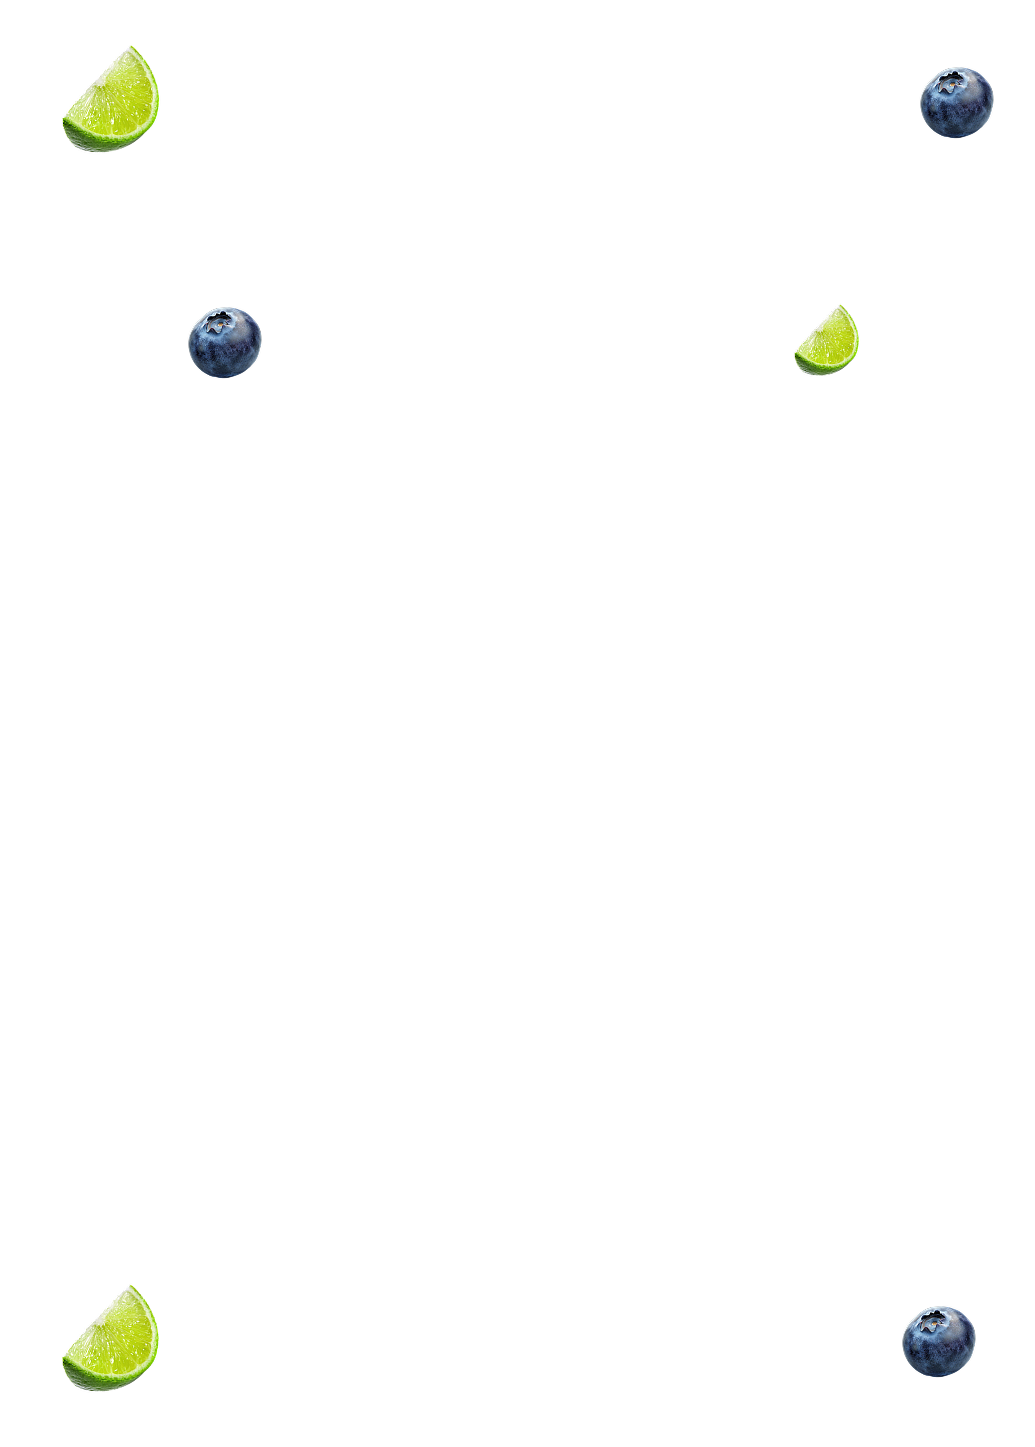
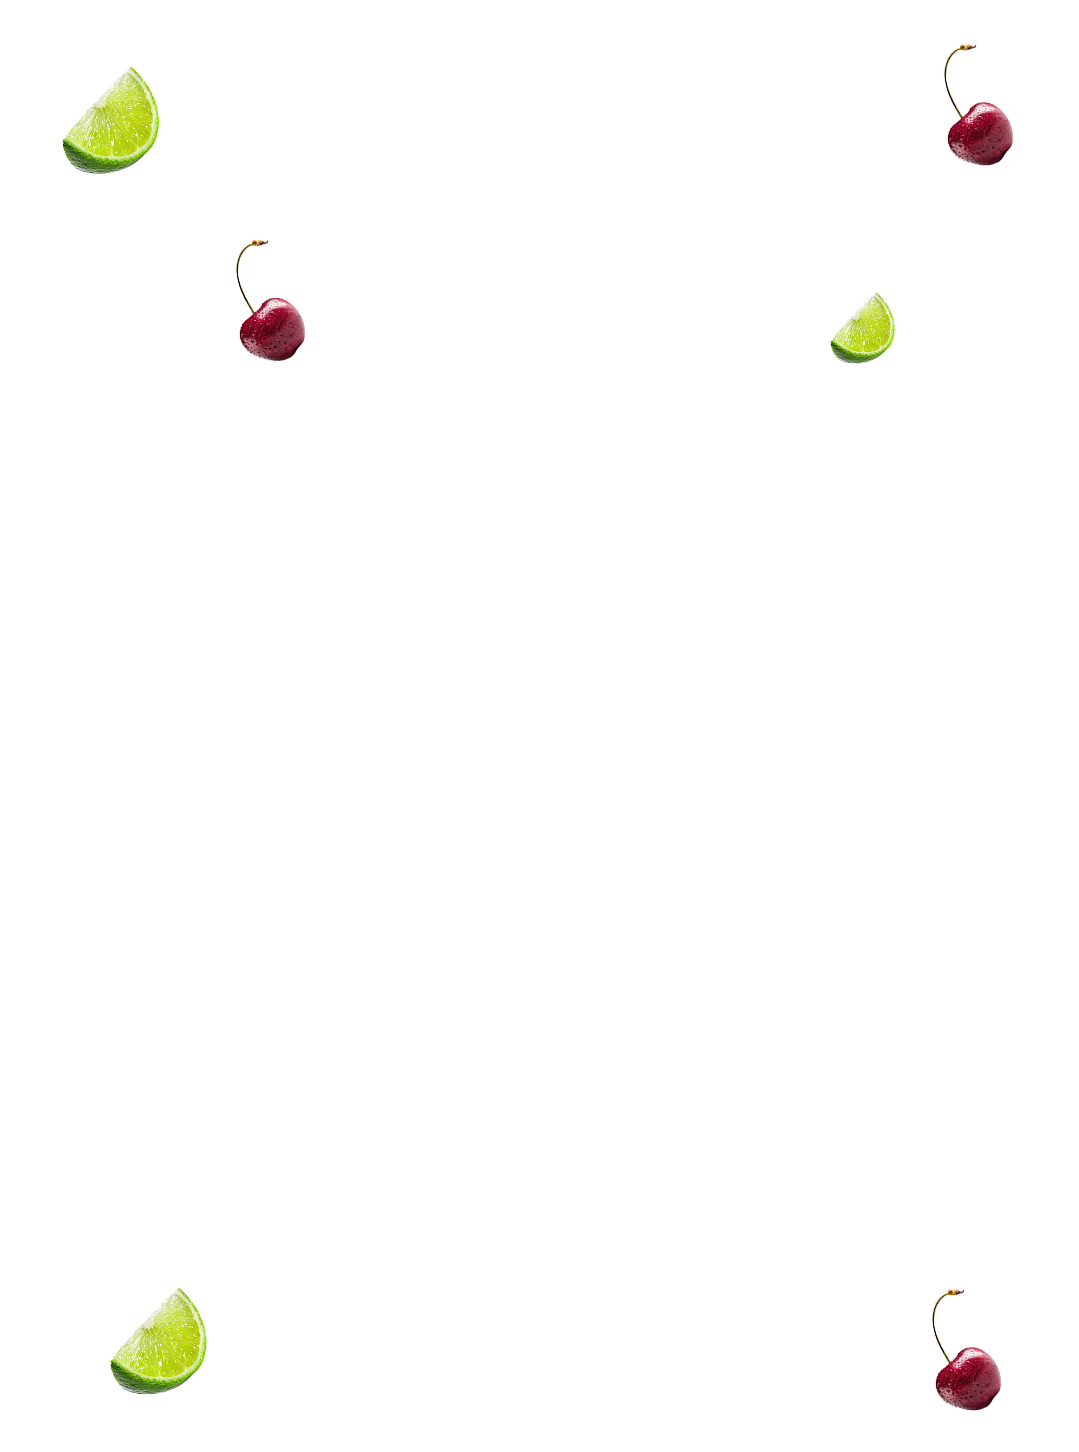
Arrow fixes and fruits image change

diff --git a/src/components/Slider.tsx b/src/components/Slider.tsx
@@ -159,7 +159,7 @@ const PrevButton = styled(NavButton)`
   left: 170px;
 
   @media (max-width: 768px) {
-    left: calc(100vw - 160px - 48px);
+    left: calc((150vw - 160px - 48px) / 2);
   }
 `;
 
@@ -167,7 +167,7 @@ const NextButton = styled(NavButton)`
   right: 150px;
 
   @media (max-width: 768px) {
-    right: calc(100vw - 160px - 48px);
+    right: calc((150vw - 160px - 48px) / 2);
   }
 `;
 
